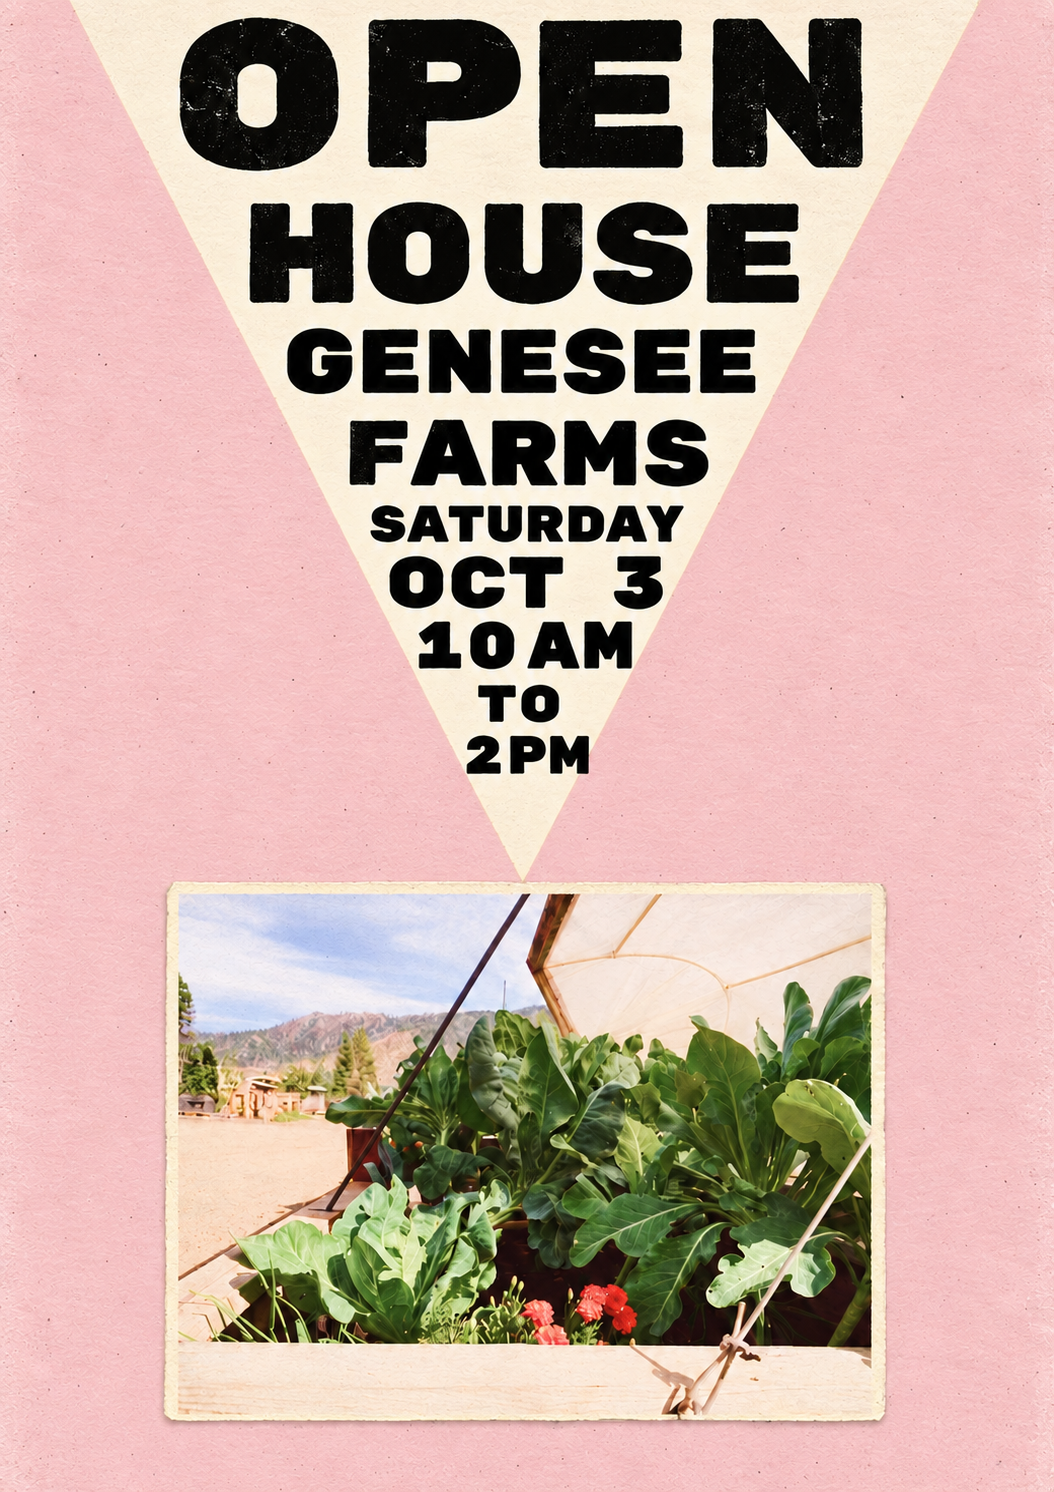
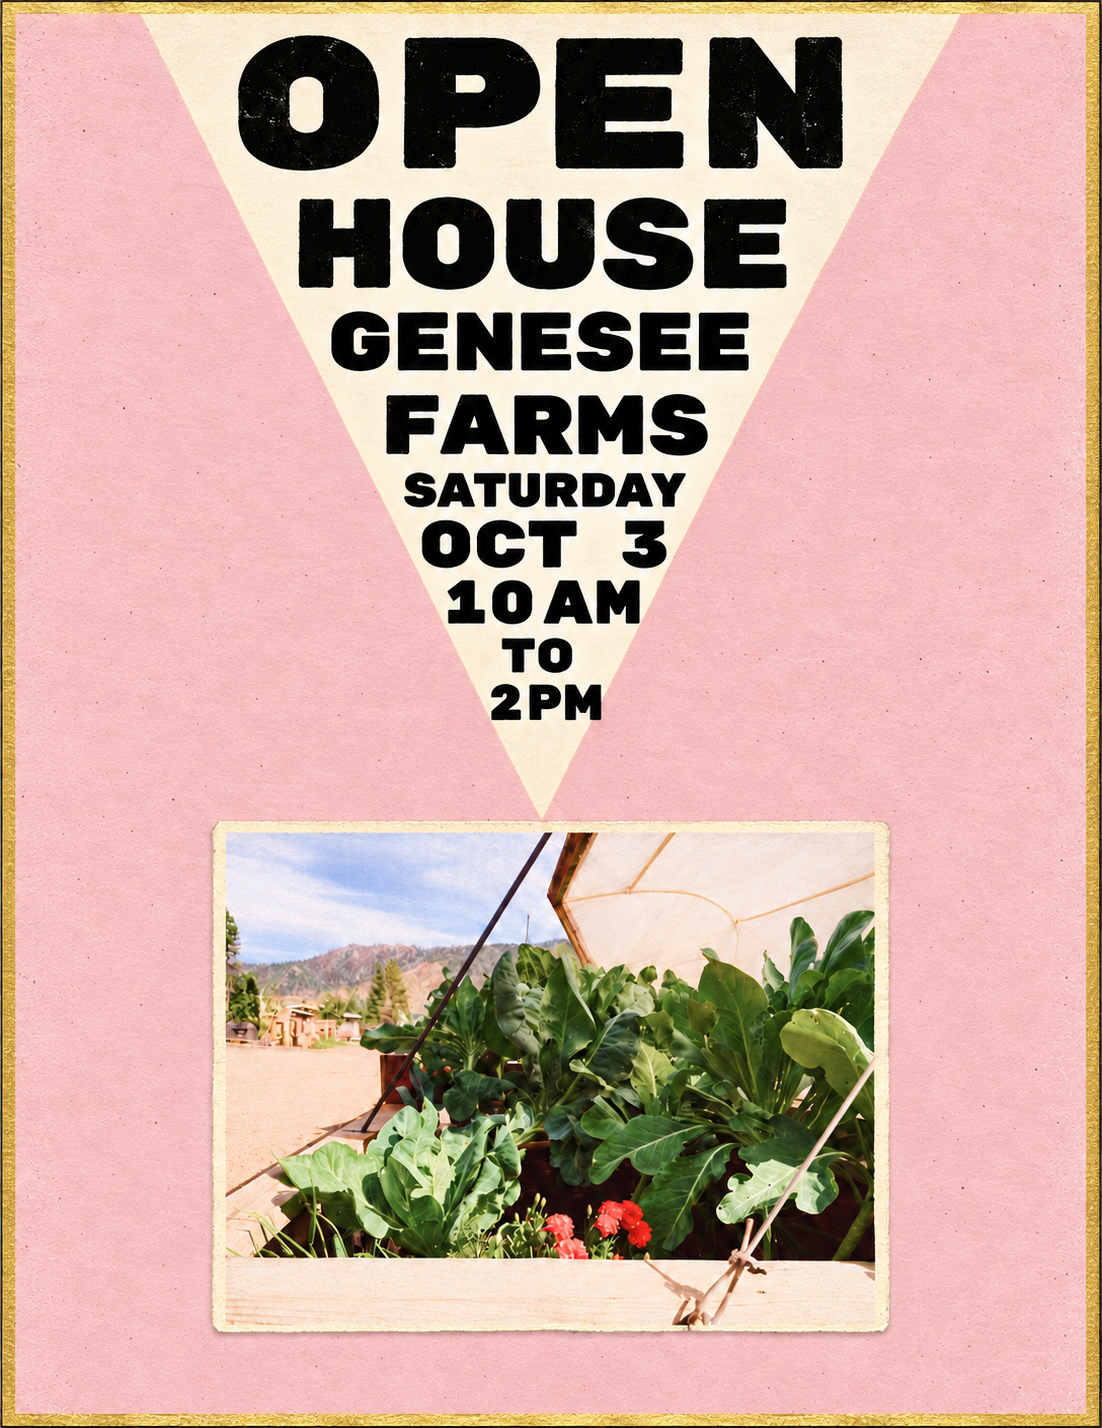
'update'

diff --git a/src/components/Newsletter.jsx b/src/components/Newsletter.jsx
@@ -1,33 +1,42 @@
 import Navbar from './Navbar'
-import MeetingBanner from './MeetingBanner'
+import EventsGrid from './EventsGrid'
 import Section from './Section'
 import logo from '../assets/logo.png'
-import EventsGrid from './EventsGrid'
+import mtHuffThankYou from '../assets/mt_huff_thank_you.png'
 
 export default function Newsletter() {
   return (
     <div className="newsletter">
       <Navbar />
-      <EventsGrid />
 
-      <MeetingBanner />
+      <main>
+        <EventsGrid />
 
-      <main className="newsletter-content">
-        <Section id="events" title="Upcoming Events">
-          <p>Our events carousel will go here.</p>
-        </Section>
+        <section
+          className="mt-huff-thank-you"
+          aria-label="Thank you to Mt. Huff Golf Course"
+        >
+          <img
+            src={mtHuffThankYou}
+            alt="Thank you, Mt. Huff Golf Course! For hosting our Chamber mixer on Wednesday, September 9, 2026, and treating everyone to delicious chicken strips on the house. We appreciate your generosity and hospitality! Indian Valley Chamber of Commerce."
+            loading="lazy"
+            decoding="async"
+          />
+        </section>
 
-        <Section id="chamber-news" title="Chamber News">
-          <p>Chamber updates will go here.</p>
-        </Section>
+        <div className="newsletter-content">
+          <Section id="chamber-news" title="Chamber News">
+            <p>Chamber updates will go here.</p>
+          </Section>
 
-        <Section id="artisan-shop" title="Artisan Shop">
-          <p>Artisan Shop information will go here.</p>
-        </Section>
+          <Section id="artisan-shop" title="Artisan Shop">
+            <p>Artisan Shop information will go here.</p>
+          </Section>
 
-        <Section id="scholarship" title="Scholarship">
-          <p>Scholarship information will go here.</p>
-        </Section>
+          <Section id="scholarship" title="Scholarship">
+            <p>Scholarship information will go here.</p>
+          </Section>
+        </div>
       </main>
 
       <footer className="newsletter-footer">

diff --git a/src/App.css b/src/App.css
@@ -278,3 +278,26 @@ a.membership-link:hover {
     scroll-margin-top: 340px;
   }
 }
+
+/* Standalone thank-you note beneath the events. */
+
+.mt-huff-thank-you {
+  box-sizing: border-box;
+  width: min(100%, 1160px);
+  margin-inline: auto;
+  padding: 0 clamp(20px, 4vw, 40px) clamp(36px, 5vw, 64px);
+}
+
+.mt-huff-thank-you img {
+  display: block;
+  width: 100%;
+  max-width: 960px;
+  height: auto;
+  margin-inline: auto;
+}
+
+@media (max-width: 600px) {
+  .mt-huff-thank-you {
+    padding: 0 12px 36px;
+  }
+}
